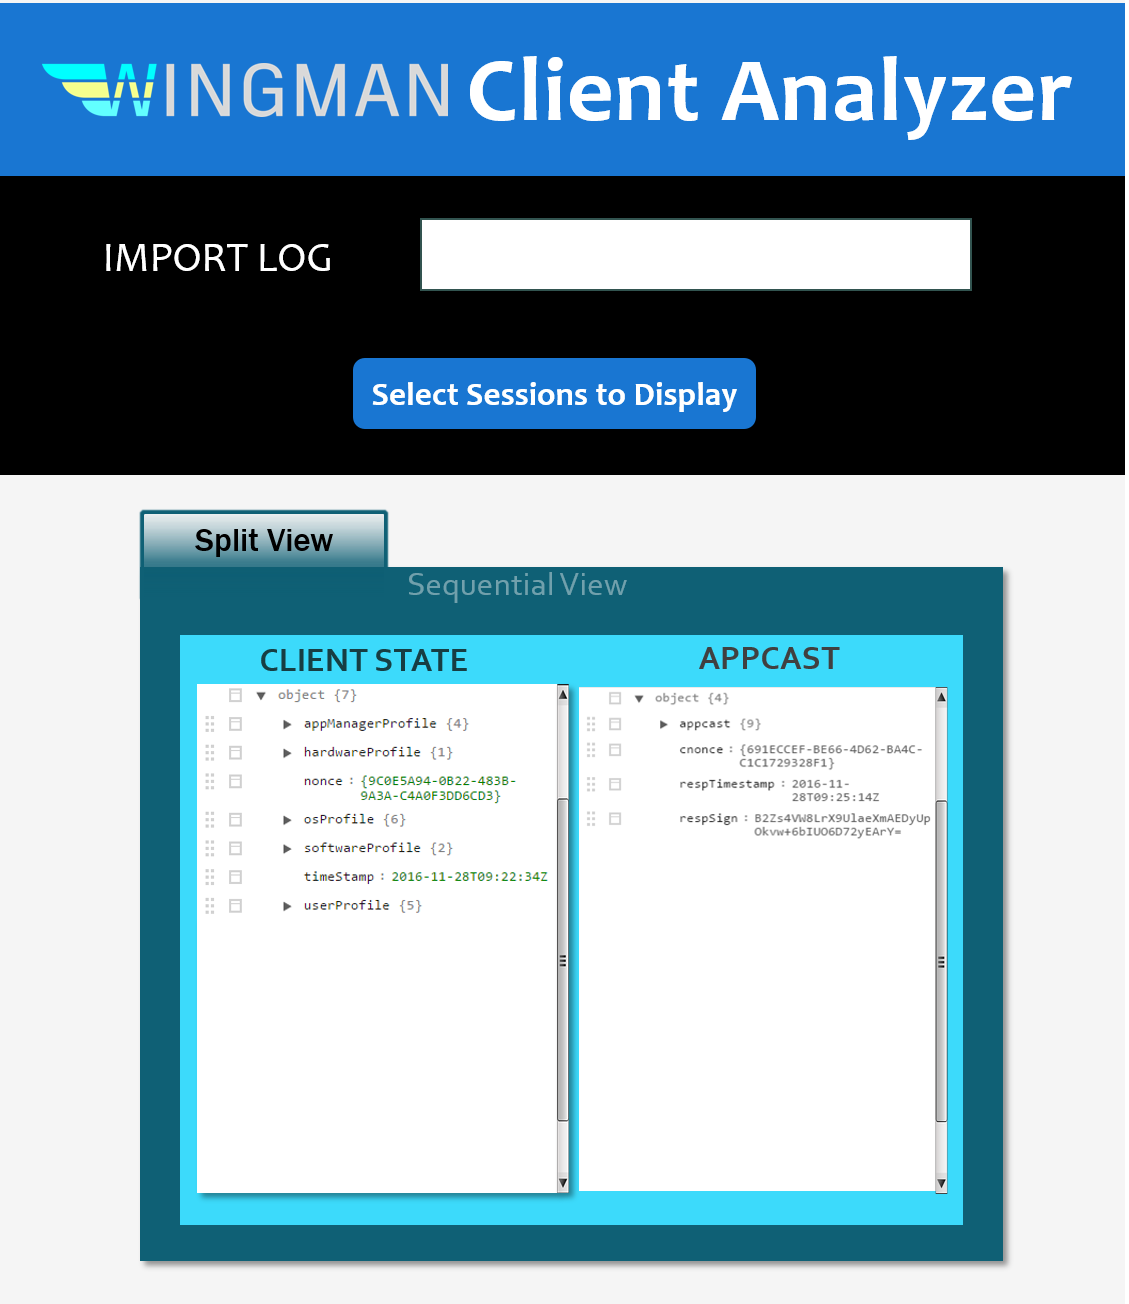
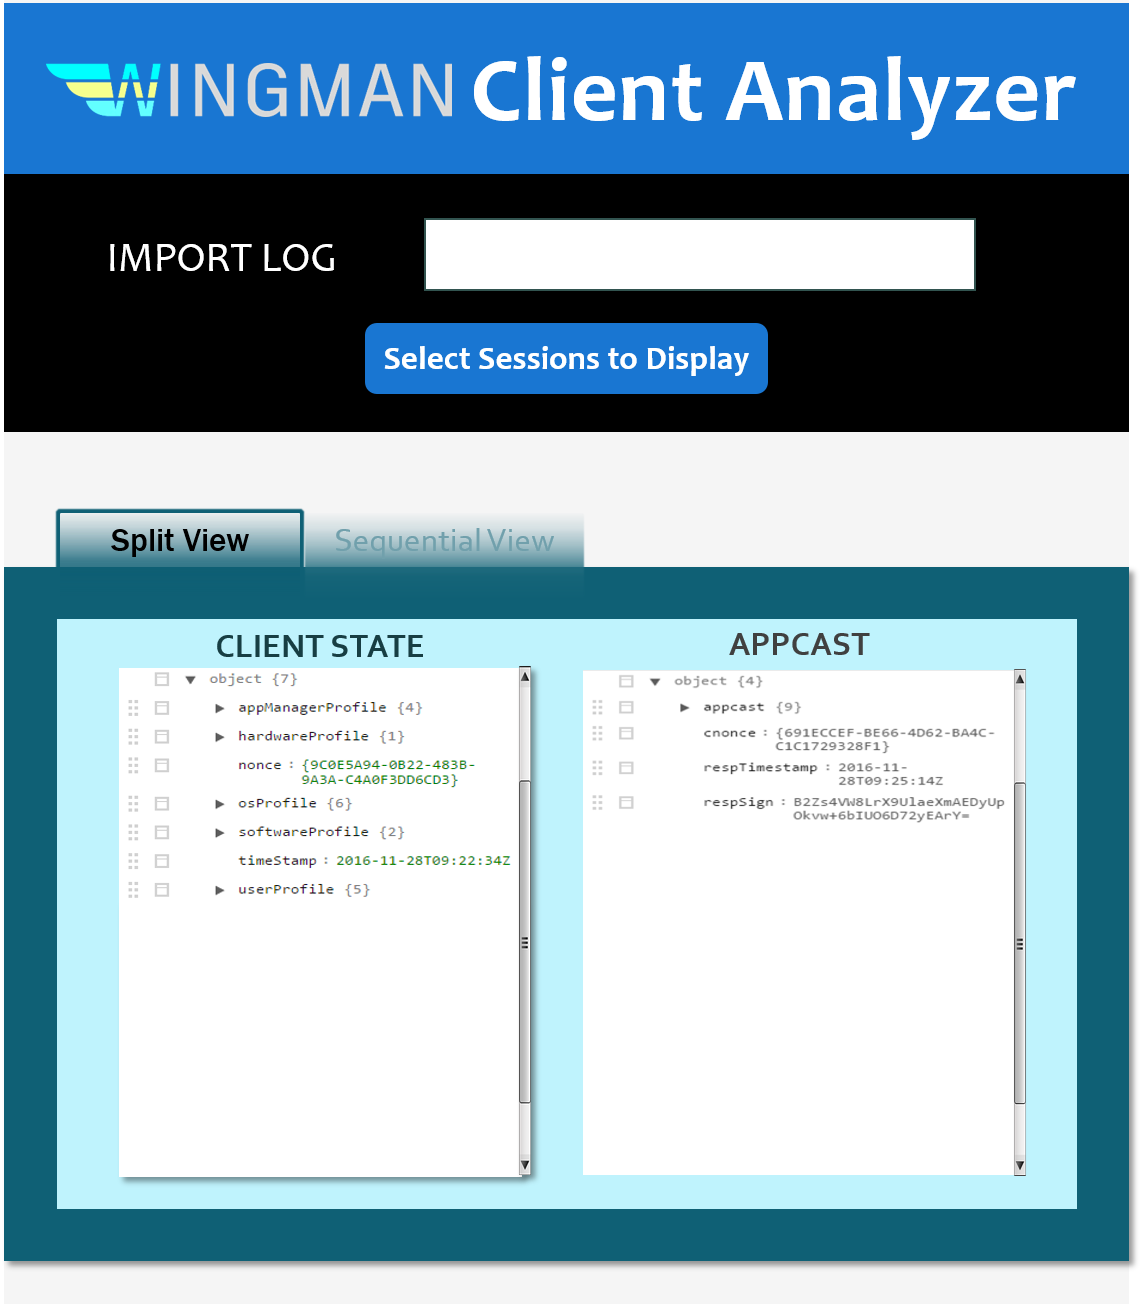
updated material design

diff --git a/README.md b/README.md
@@ -59,6 +59,10 @@ To start the app, there are 3 distinct ways:
 ### Material Design
 #### Split View
 ![MD Split View](images/Wingman-Client-Analyzer-splitview.png "Material Design Split View")
+#### Sequential View
+![Sequential View](images/Wingman-Client-Analyzer-sequentialview.png "Material Design Sequential View")
+#### Filter
+![Filter Modal Dialog](images/Wingman-Client-Analyzer-sessionsfilter.png "Material Design Filter Modal Dialog")
 
 ## TODOs
 
